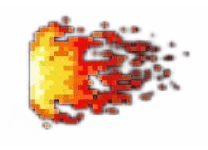
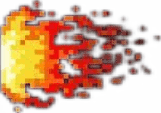
added cropped to content burst images.  + modified game

diff --git a/nibbler-fuel-game.py b/nibbler-fuel-game.py
@@ -5,7 +5,8 @@ from random import randint, choice
 from os import listdir
 from os.path import isfile
 import pygame
-#from pgzero.actor import Actor
+#from pgzero.builtins import Actor, animate, Rect, images, clock, sounds
+#si j'importe tout ci-dessus : n'affiche plus de surlignage rouge mais le scale ne fonctionne plus sur le ship étrangement
 
 
 
@@ -75,16 +76,17 @@ poop_visible = False
 
 class Ship : # ou Ship(Actor)
     def __init__(self):
-        self.sprite=Actor('planet_express', anchor= ['right', 'top'])   #super().__init__('planet_express', anchor= ['right', 'top'])
+        self.sprite=Actor('planet_express', anchor= ['right', 'center'])   #super().__init__('planet_express', anchor= ['right', 'center'])
         self.sprite.scale = 0.33    # pas besoin de mettre 'sprite.' si méthode héritage
-        self.sprite.pos = (WIDTH, 0)
+        self.sprite.pos = (WIDTH, images.planet_express.get_height()*0.33-33)
         self.direction = [-1, 0]
         self.speed = 10
         self.boostspeed = 30
         self.boostspeed_timer = 0
         self.move_timer = 0
-        self.burstflamesprite = Actor('small_burst', anchor=['left','top'])
-        self.burstflamesprite.pos = (self.sprite.pos[0], 0)
+        self.burstflamesprite = Actor('small_burst', anchor=['left','center'])
+        self.burstflamesprite.scale = 0.50
+        self.burstflamesprite.pos = (self.sprite.pos[0], self.sprite.pos[1])
     
     
     def move(self, dt):
@@ -94,10 +96,12 @@ class Ship : # ou Ship(Actor)
             x = self.sprite.pos[0] + self.speed * self.direction[0] * dt
             y = self.sprite.pos[1] + self.speed * self.direction[1] * dt
             self.sprite.pos = [x , y]
+        self.burstflamesprite.pos = (self.sprite.pos[0], self.sprite.pos[1])
             
 
     def draw(self):
         self.sprite.draw()
+        self.burstflamesprite.draw()
         
     def decelerate(self):
         self.speed /= 2
@@ -114,10 +118,10 @@ def draw(): # ce qui est dans le draw, ne doit que draw. On peut mettre des if (
 
     # si je veux fullscreen sans pouvoir en sortir :    screen.surface = pygame.display.set_mode((WIDTH, HEIGHT), pygame.FULLSCREEN)
     
-    #    if game_over:
+    #  if game_over:
         #screen.clear()
-        #screen.draw.text('Game Over', (350,270), color=(255,255,255), fontsize=30)
-        #screen.draw.text('Score: ' + str(round(score)), (350,330), color=(255,255,255), fontsize=30)
+        #screen.draw.text('Game Over', (WIDTH/2, HEIGHT/2), color="red", gcolor="yellow", owidth=0.25, ocolor="grey", fontsize=100)
+        #screen.draw.text('Score: ' + str(round(score)), (WIDTH/2, HEIGHT/2+10), color="gold", owidth=0.25, ocolor="grey", fontsize=50)
     #else:
 
     # fullscreen dans le draw absolument 
@@ -185,7 +189,7 @@ def random_pos_enemy():
 
 
 def food_update(dt):  #delta time = (la différence de temps) le temps qui s'est passé depuis la précédente update (1/60e de seconde)
-    global food_time, food, score, food_value_score_visible, enemy_value_score_visible, combo
+    global food_time, food, score, food_value_score_visible, enemy_value_score_visible, combo, poop
 
     food_time -= dt # dt = changement du temps
     if food_time <= 0.0: # quand le sablier est vide ou en dessous de 0
@@ -209,7 +213,7 @@ def food_update(dt):  #delta time = (la différence de temps) le temps qui s'est
             sounds.munch.play()
             score += 100
             food_value_score_visible = True
-            clock.schedule_interval(set_food_value_score, 0.7)
+            clock.schedule_interval(set_food_value_score, 0.8)
             ship.move_timer = 1
             combo += 1
             # if combo % 3 == 0 :   règle si par incrémentation de 3
@@ -222,6 +226,13 @@ def food_update(dt):  #delta time = (la différence de temps) le temps qui s'est
         elif food.pos[1] >= HEIGHT -10:
             food_list.remove(food)
             # pas de break car dans le casse-brique, touche une brique à la foi, ici, plusieurs food peuvent collide
+
+    if poop_visible:
+        poop.move_towards(ship.sprite, 1020*dt) # *dt donne la vitesse dans ce cas-ci
+        #if ship.sprite.collidepoint(poop):
+            #pygame.Surface.set_alpha(poop, 0)
+
+
 
 
 def enemy_update(dt):
@@ -247,7 +258,7 @@ def enemy_update(dt):
             score -= malus
             set_enemy_action_animate()
             enemy_value_score_visible = True
-            clock.schedule_interval(set_enemy_value_score, 0.7)
+            clock.schedule_interval(set_enemy_value_score, 0.8)
             enemy_action_trigger_visible = True
             enemy_action_trigger_speed = [-enemy_action_trigger_maxspeed,0]
             enemy_action_trigger.pos = [WIDTH -66, HEIGHT-player.height]
@@ -265,7 +276,8 @@ def enemy_action_trigger_update(dt):
     if player.colliderect(enemy_action_trigger):
         #enemy_action_trigger_visible = False
         sounds.slap_umph.play()
-        enemy_action_trigger_speed = [0,enemy_action_trigger_maxspeed]
+        enemy_action_trigger_speed = [0, enemy_action_trigger_maxspeed]
+        enemy_action.move_back(-132)  #important de le mettre ici sinon il reste en dehors de l'écran !
         
 
 
@@ -300,6 +312,8 @@ def update(dt):
         enemy_action_trigger_update(dt)
     ship.move(dt)
 
+
+
 def on_mouse_move(pos): 
     if pos[0] > 50 and pos[0] < WIDTH - 200 : #largeur et hauteur sprite = 296
         x = pos[0]
@@ -332,7 +346,9 @@ def set_enemy_action_animate():
     clock.schedule_interval(set_enemy_action_normal, 0.7)
     enemy_action_visible = True
     enemy_action.pos = (WIDTH-66, HEIGHT)
-    clock.schedule_interval(set_enemy_action_invisible, 1) 
+    #clock.schedule_interval(set_enemy_action_invisible, 1.50)  --code si je ne le déplace pas.-- bug de collide avec poop qui va vers ship
+    
+
 
 
 def set_enemy_action_normal():
